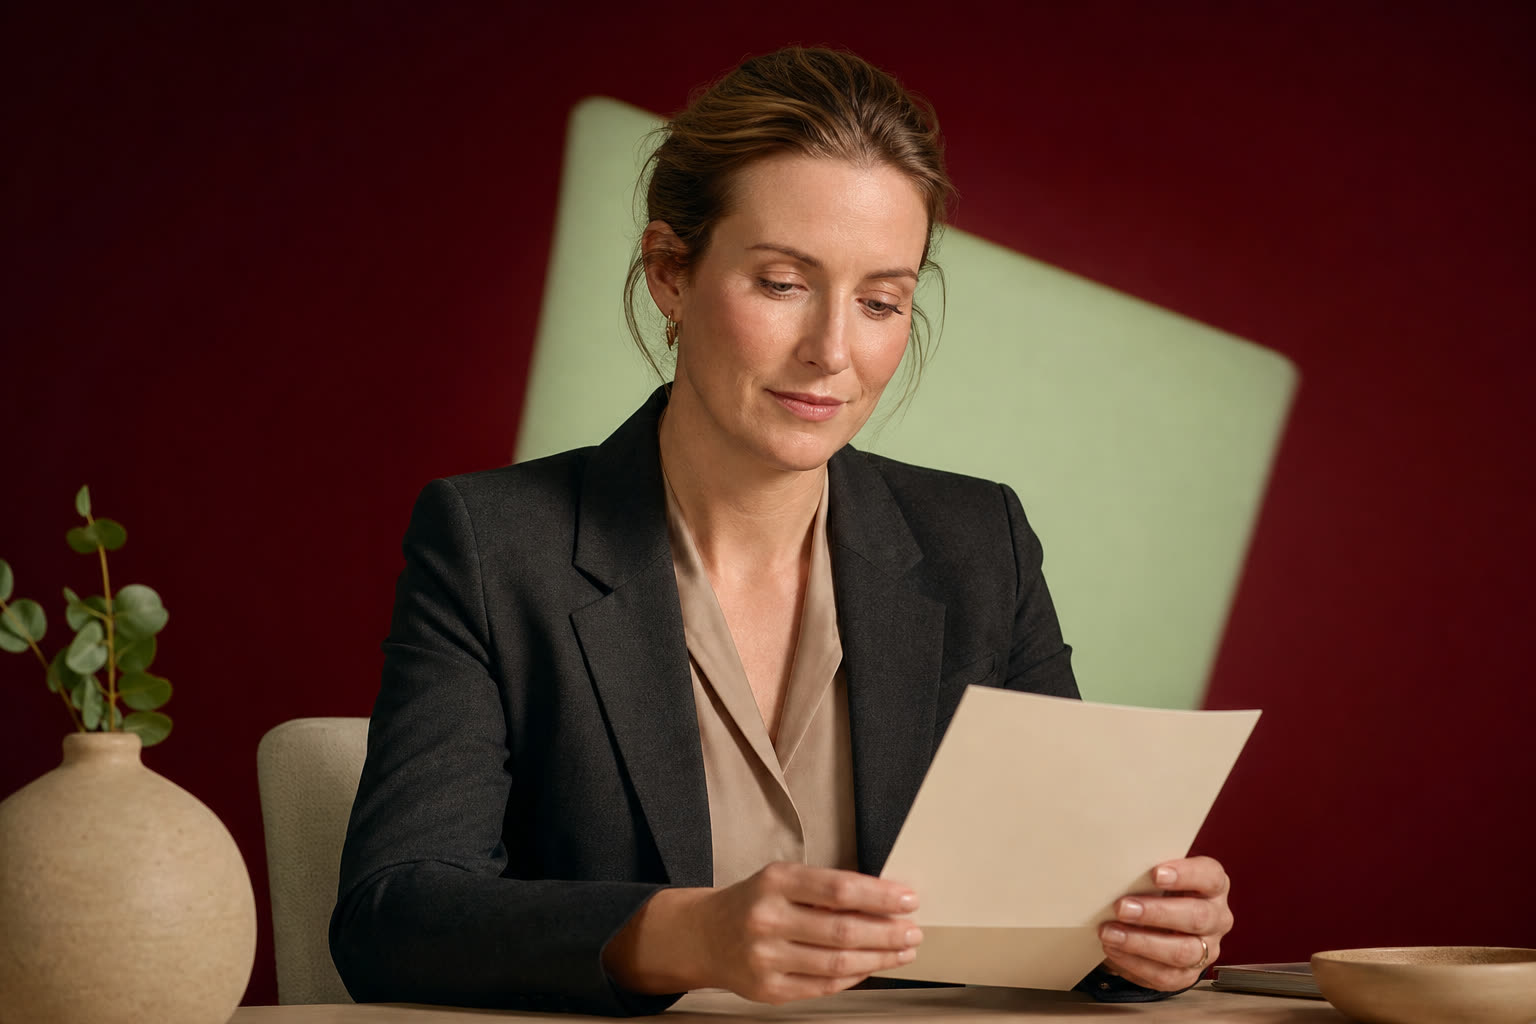
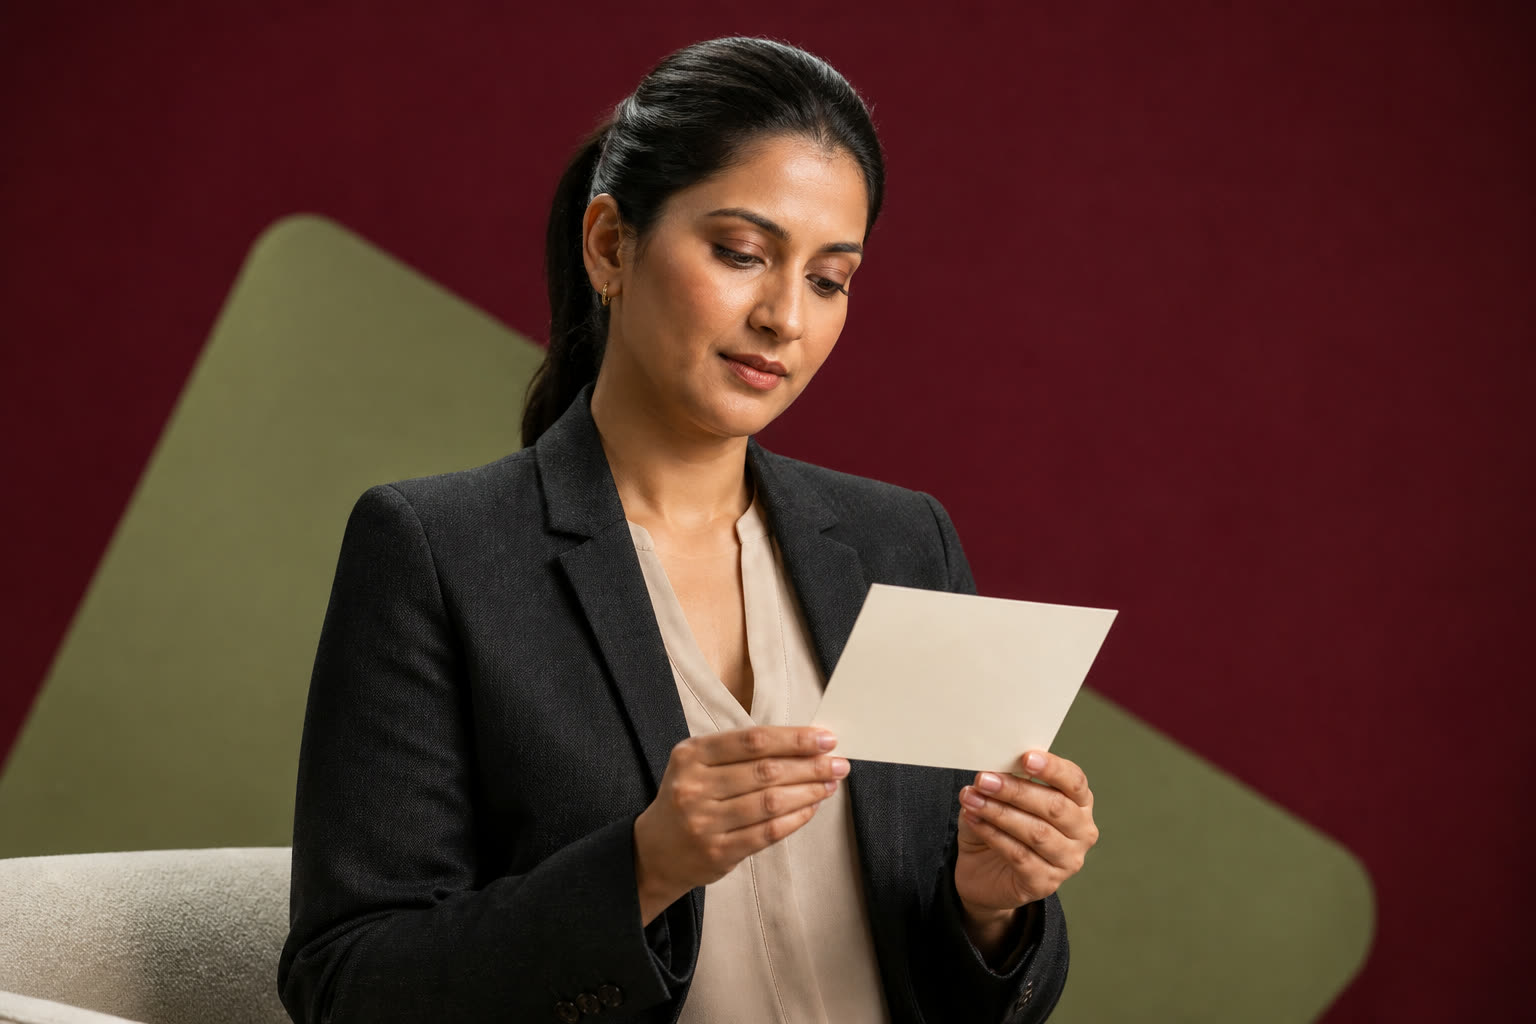
Mix the campaign casting to reflect the target demographic.

diff --git a/public/images/continuity/PROMPTS.md b/public/images/continuity/PROMPTS.md
@@ -1,6 +1,6 @@
 # Continuity image prompts
 
-Style bible applied to every prompt: photorealistic, premium medical-wellness, Lifeforce/Hims editorial; deep forest green, warm beige, charcoal, soft natural light; no logos, no readable drug brand names, no text in image, no UI chrome; healthy, calm, not stock-smile cheesy. Casting direction as of August 2026: people-forward images use adults in their mid 30s, generally white, matching the primary target demographic.
+Style bible applied to every prompt: photorealistic, premium medical-wellness, Lifeforce/Hims editorial; deep forest green, warm beige, charcoal, soft natural light; no logos, no readable drug brand names, no text in image, no UI chrome; healthy, calm, not stock-smile cheesy. Casting direction as of August 2026: people-forward images use adults in their mid 30s with a mix that reflects the target demographic, generally white with some diverse casting across the set.
 
 Generated with Cursor `GenerateImage`, then compressed to JPEG (max 1600px, quality 72) for the storefront.
 The 12 `continuity-*` funnel images were generated at the tool's nearest supported portrait ratio (3:4), then center-cropped to the requested 4:5 output (768×960).
@@ -57,13 +57,13 @@ and crisp commercial lighting. The existing strength-session photograph remains 
 | `hero-studio-adult.jpg` | 16:9 | Woman in oatmeal and charcoal on deep emerald with a coral spotlight. Retired from the hero. |
 | `hero-studio-strength.jpg` | 4:3 | Man holding a kettlebell on burnt orange with a forest floor. Retired from the hero. |
 | `hero-studio-duo.jpg` | 16:9 | White woman and man, mid 30s, in oatmeal and charcoal knits, the man holding a kettlebell, together on deep emerald with one coral circle spotlight, subjects right of center with negative space left for copy. Replaces the two overlaid hero images. |
-| `problem-fatigue-studio.jpg` | 3:4 | Seated white woman, mid 30s, with a cup on deep emerald with a coral spotlight. |
+| `problem-fatigue-studio.jpg` | 3:4 | Seated Black woman, mid 30s, with a cup on deep emerald with a coral spotlight. |
 | `problem-gi-food-motion.jpg` | 3:4 | Leafy greens, red berries and milk frozen in motion on coral red. |
 | `protocol-nutrition-studio.jpg` | 16:9 | White woman, mid 30s, holding a plated protein-forward meal on emerald and coral. |
 | `how-intake-studio.jpg` | 4:3 | White man, mid 30s, using an unbranded laptop on coral with forest geometry. |
-| `how-clinician-studio.jpg` | 4:3 | White professional woman, mid 30s, reviewing a blank card on berry red with sage light. |
+| `how-clinician-studio.jpg` | 4:3 | South Asian professional woman, mid 30s, reviewing a blank card on berry red with sage light. |
 | `testimonial-studio.jpg` | 3:4 | White woman, mid 30s, in oatmeal and charcoal on berry red with a forest circle. |
-| `quiz-home-welcome-studio.jpg` | 3:4 | Approachable white woman, mid 30s, with a blank planning card on emerald and coral. |
+| `quiz-home-welcome-studio.jpg` | 3:4 | Approachable Latina woman, mid 30s, with a blank planning card on emerald and coral. |
 | `problem-muscle.jpg` (recast) | 3:4 | White man, mid 30s, in a home gym checking his forearm while holding a kettlebell, forest green wall and beige wood floor. |
 
 **Count: 47 images (12 continuity funnel images and 9 studio campaign images).**
